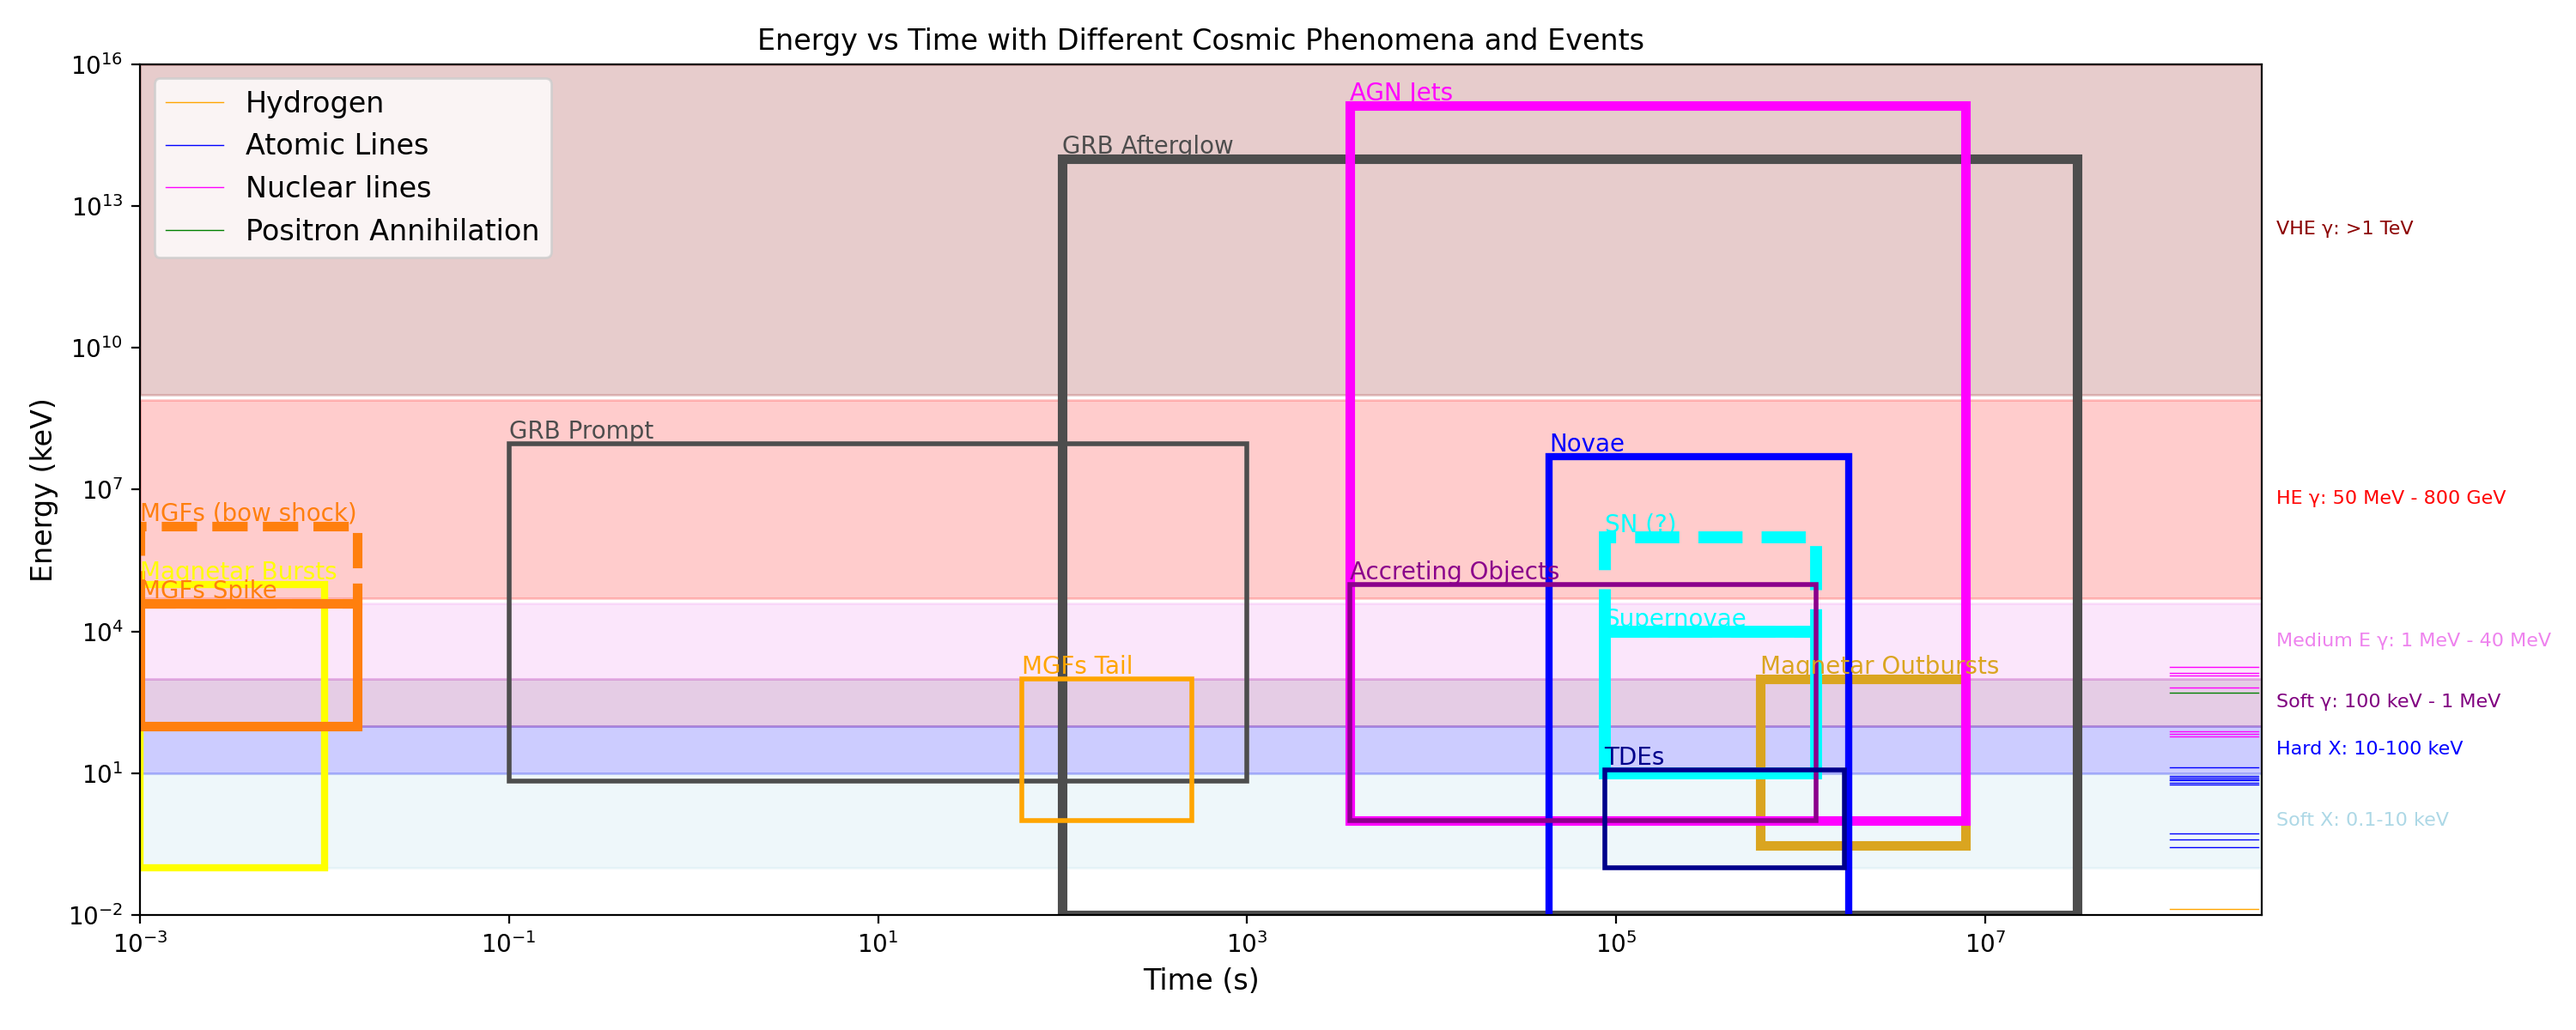
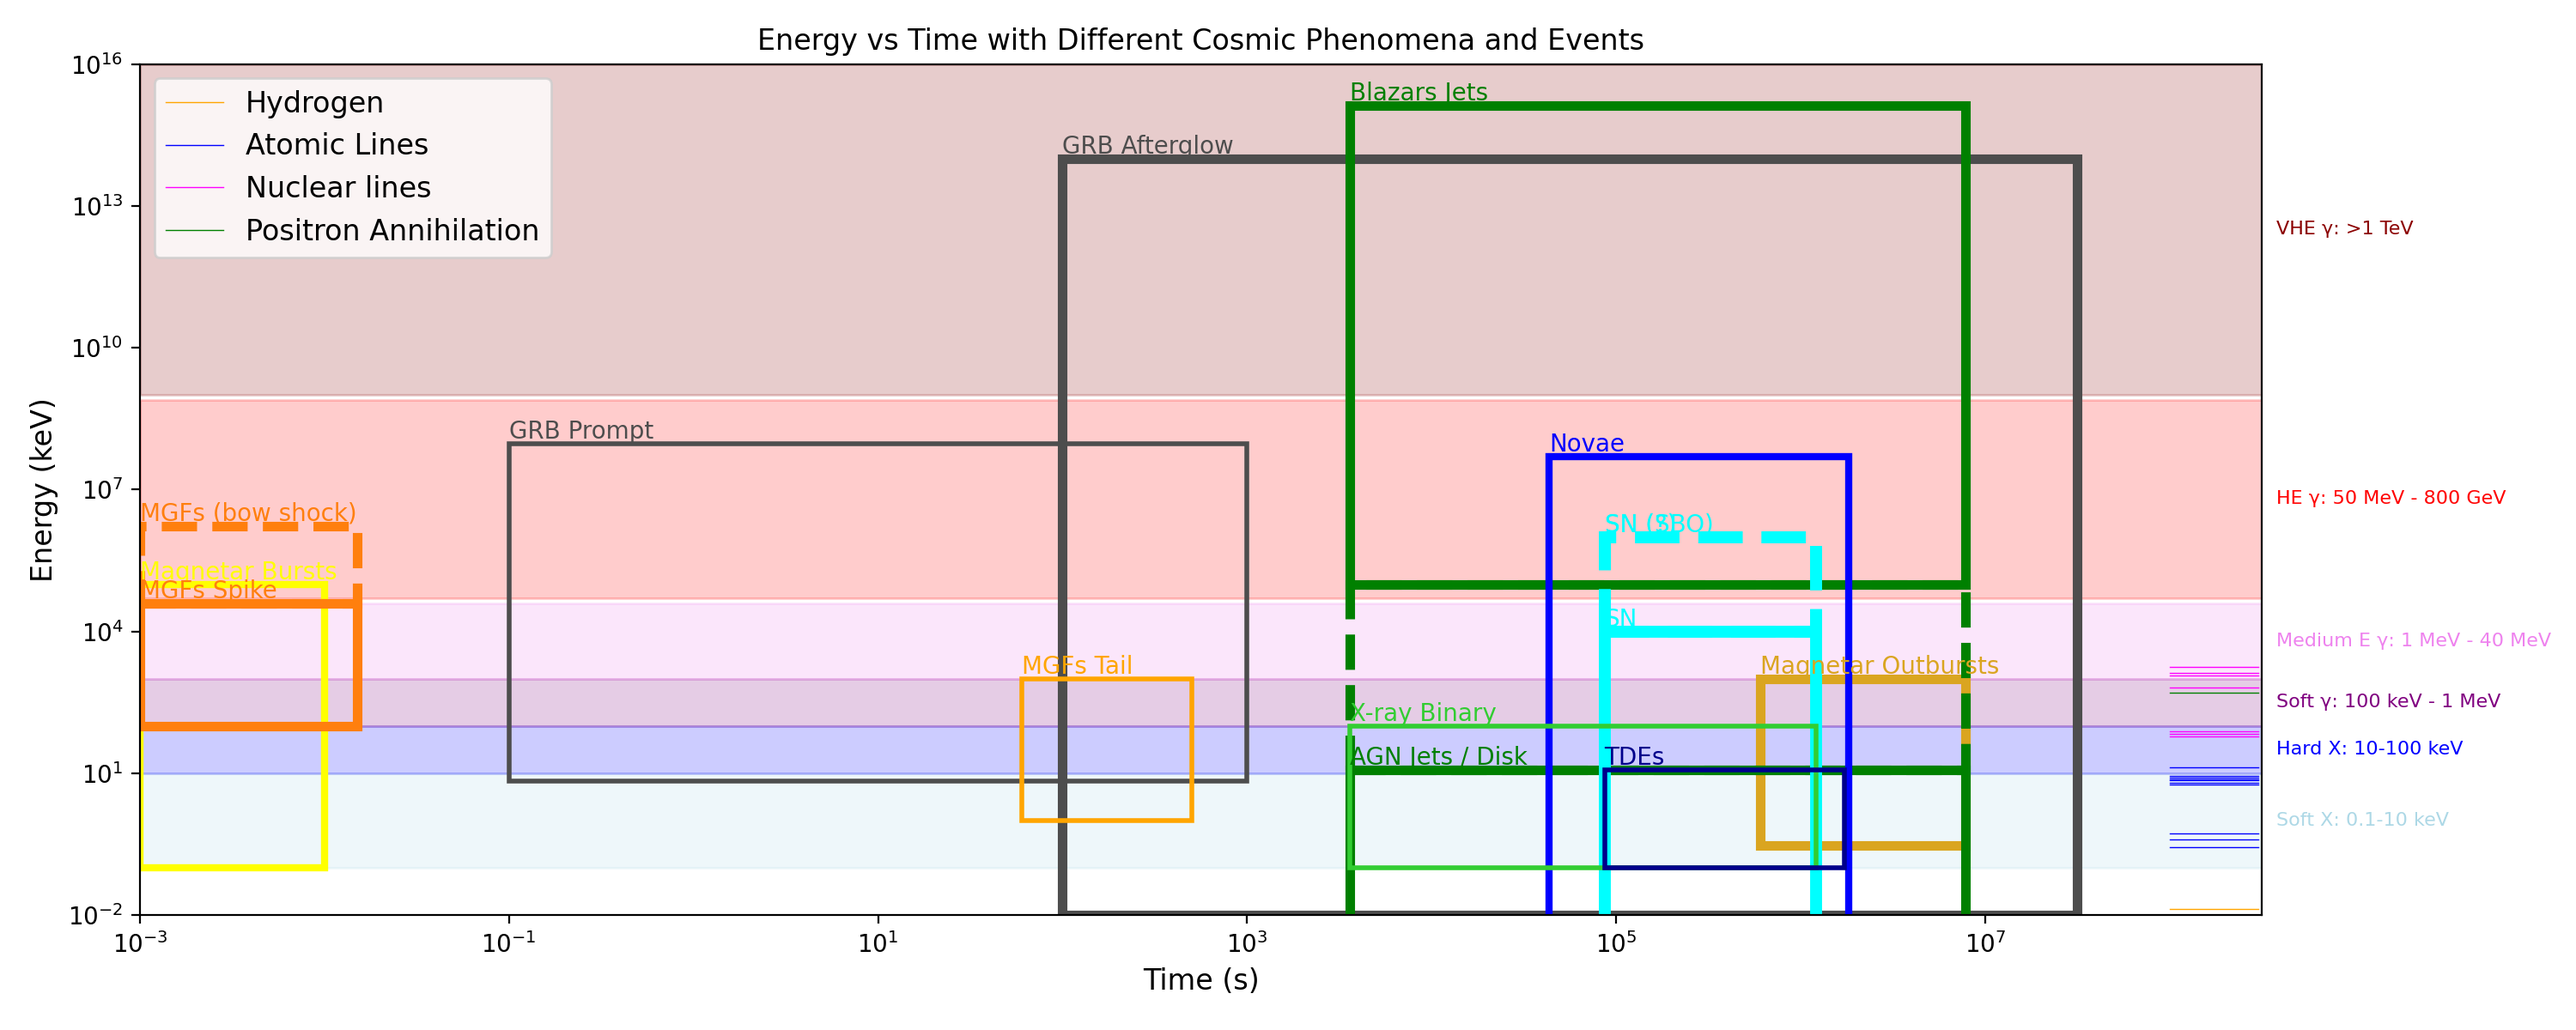
minor

Changed region(s): [[0.496, 0.0617, 0.775, 0.8942], [0.62, 0.4933, 0.682, 0.5242]]

diff --git a/HEtransients.py b/HEtransients.py
@@ -26,33 +26,17 @@ events = [
     (1e-3, 1e2, 15e-3, 40e3, 'tab:orange', 'MGFs Spike', 4, '-'),
     (1e-3, 40e3, 15e-3, 1.7e6, 'tab:orange', 'MGFs (bow shock)', 4, '--'),
     (60, 1, 500, 1e3, 'orange', 'MGFs Tail', 2, '-'),
-    (3600, 1, 90*24*3600, 13e14, 'magenta', 'AGN Jets', 4, '-'),
-    (24*3600, 10, 14*24*3600, 1e4, 'cyan', 'Supernovae', 5, '-'),
+    (3600, 100e3, 90*24*3600, 13e14, 'green', 'Blazars Jets', 4, '-'),
+    (3600, 12, 90*24*3600, 100e3, 'green', ' ', 4, '--'),
+    (3600, 1e-3, 90*24*3600, 12, 'green', 'AGN Jets / Disk', 4, '-'),
+    (24*3600, 1e-3, 14*24*3600, 1e4, 'cyan', 'SN', 5, '-'),
     (24*3600, 1e4, 14*24*3600, 1e6, 'cyan', 'SN (?)', 5, '--'),
     (12*3600, 1e-3, 21*24*3600, 50e6, 'blue', 'Novae', 3, '-'),
-    (3600, 1, 14*24*3600, 1e5, 'darkmagenta', 'Accreting Objects', 2, '-'),
+    (24*3600, 1e4, 14*24*3600, 1e6, 'cyan', 'SN (SBO)', 5, '--'),
+    (3600, 0.1, 14*24*3600, 1e2, 'limegreen', 'X-ray Binary', 2, '-'),
     (24*3600, 0.1, 20*24*3600, 12, 'darkblue', 'TDEs', 2, '-'),
     # (24*3600, , 15*24*3600, ..., 'darkred', 'Kilonovae', 2),
     # (24*3600, ..., 15*24*3600, ..., 'darkblue', 'FBOT', 2)
-]
-
-
-instruments_ = [
-    (1e-3, 0.007, 1000, 40, 'green', 'Fermi-GBM', 1),  # Gamma-ray bursts monitoring
-    (1, 100, 10000, 300000, 'green', 'Fermi-LAT', 1),  # High-energy gamma-ray astronomy
-    (1e-3, 0.2, 1000, 5, 'green', 'COSI', 1),  # Compton imaging
-    (1e-3, 15, 150, 1000, 'green', 'Swift-BAT', 1),
-    # Corrected high-energy gamma-ray facilities:
-    (1e2, 20*1e6, 2*365*24*3600, 10*1e9, 'blue', 'HESS', 0),  # High Energy Stereoscopic System, typical range up to 100 TeV
-    (1e2, 80*1e6, 2*365*24*3600, 50*1e9, 'blue', 'CTA', 0),  # Cherenkov Telescope Array, expected range up to 300 TeV
-    (1, 10*1e9, 2*365*24*3600, 500*1e9, 'blue', 'HAWC', 0),  # High Altitude Water Cherenkov Observatory 10 to 500
-    (1, 1*1e9, 2*365*24*3600, 1*1e12, 'blue', 'LHAASO', 0),
-    # X-ray observatories
-    (7, 0.2, 2*365*24*3600, 12, 'red', 'NICER', 0),  # Neutron star Interior Composition Explorer
-    (1e-3, 3, 2*365*24*3600, 79, 'red', 'NuSTAR', 0),  # Nuclear Spectroscopic Telescope Array
-    (24*3600, 0.1, 2*365*24*3600, 10, 'red', 'Chandra', 0),  # Chandra X-ray Observatory
-    (1e-3, 0.2, 2*365*24*3600, 10, 'red', 'Swift-XRT', 0),  # Swift's X-Ray Telescope
-    (24*3600, 0.2, 2*365*24*3600, 12, 'red', 'XMM-Newton', 0),  # XMM-Newton X-ray observatory
 ]
 
 
